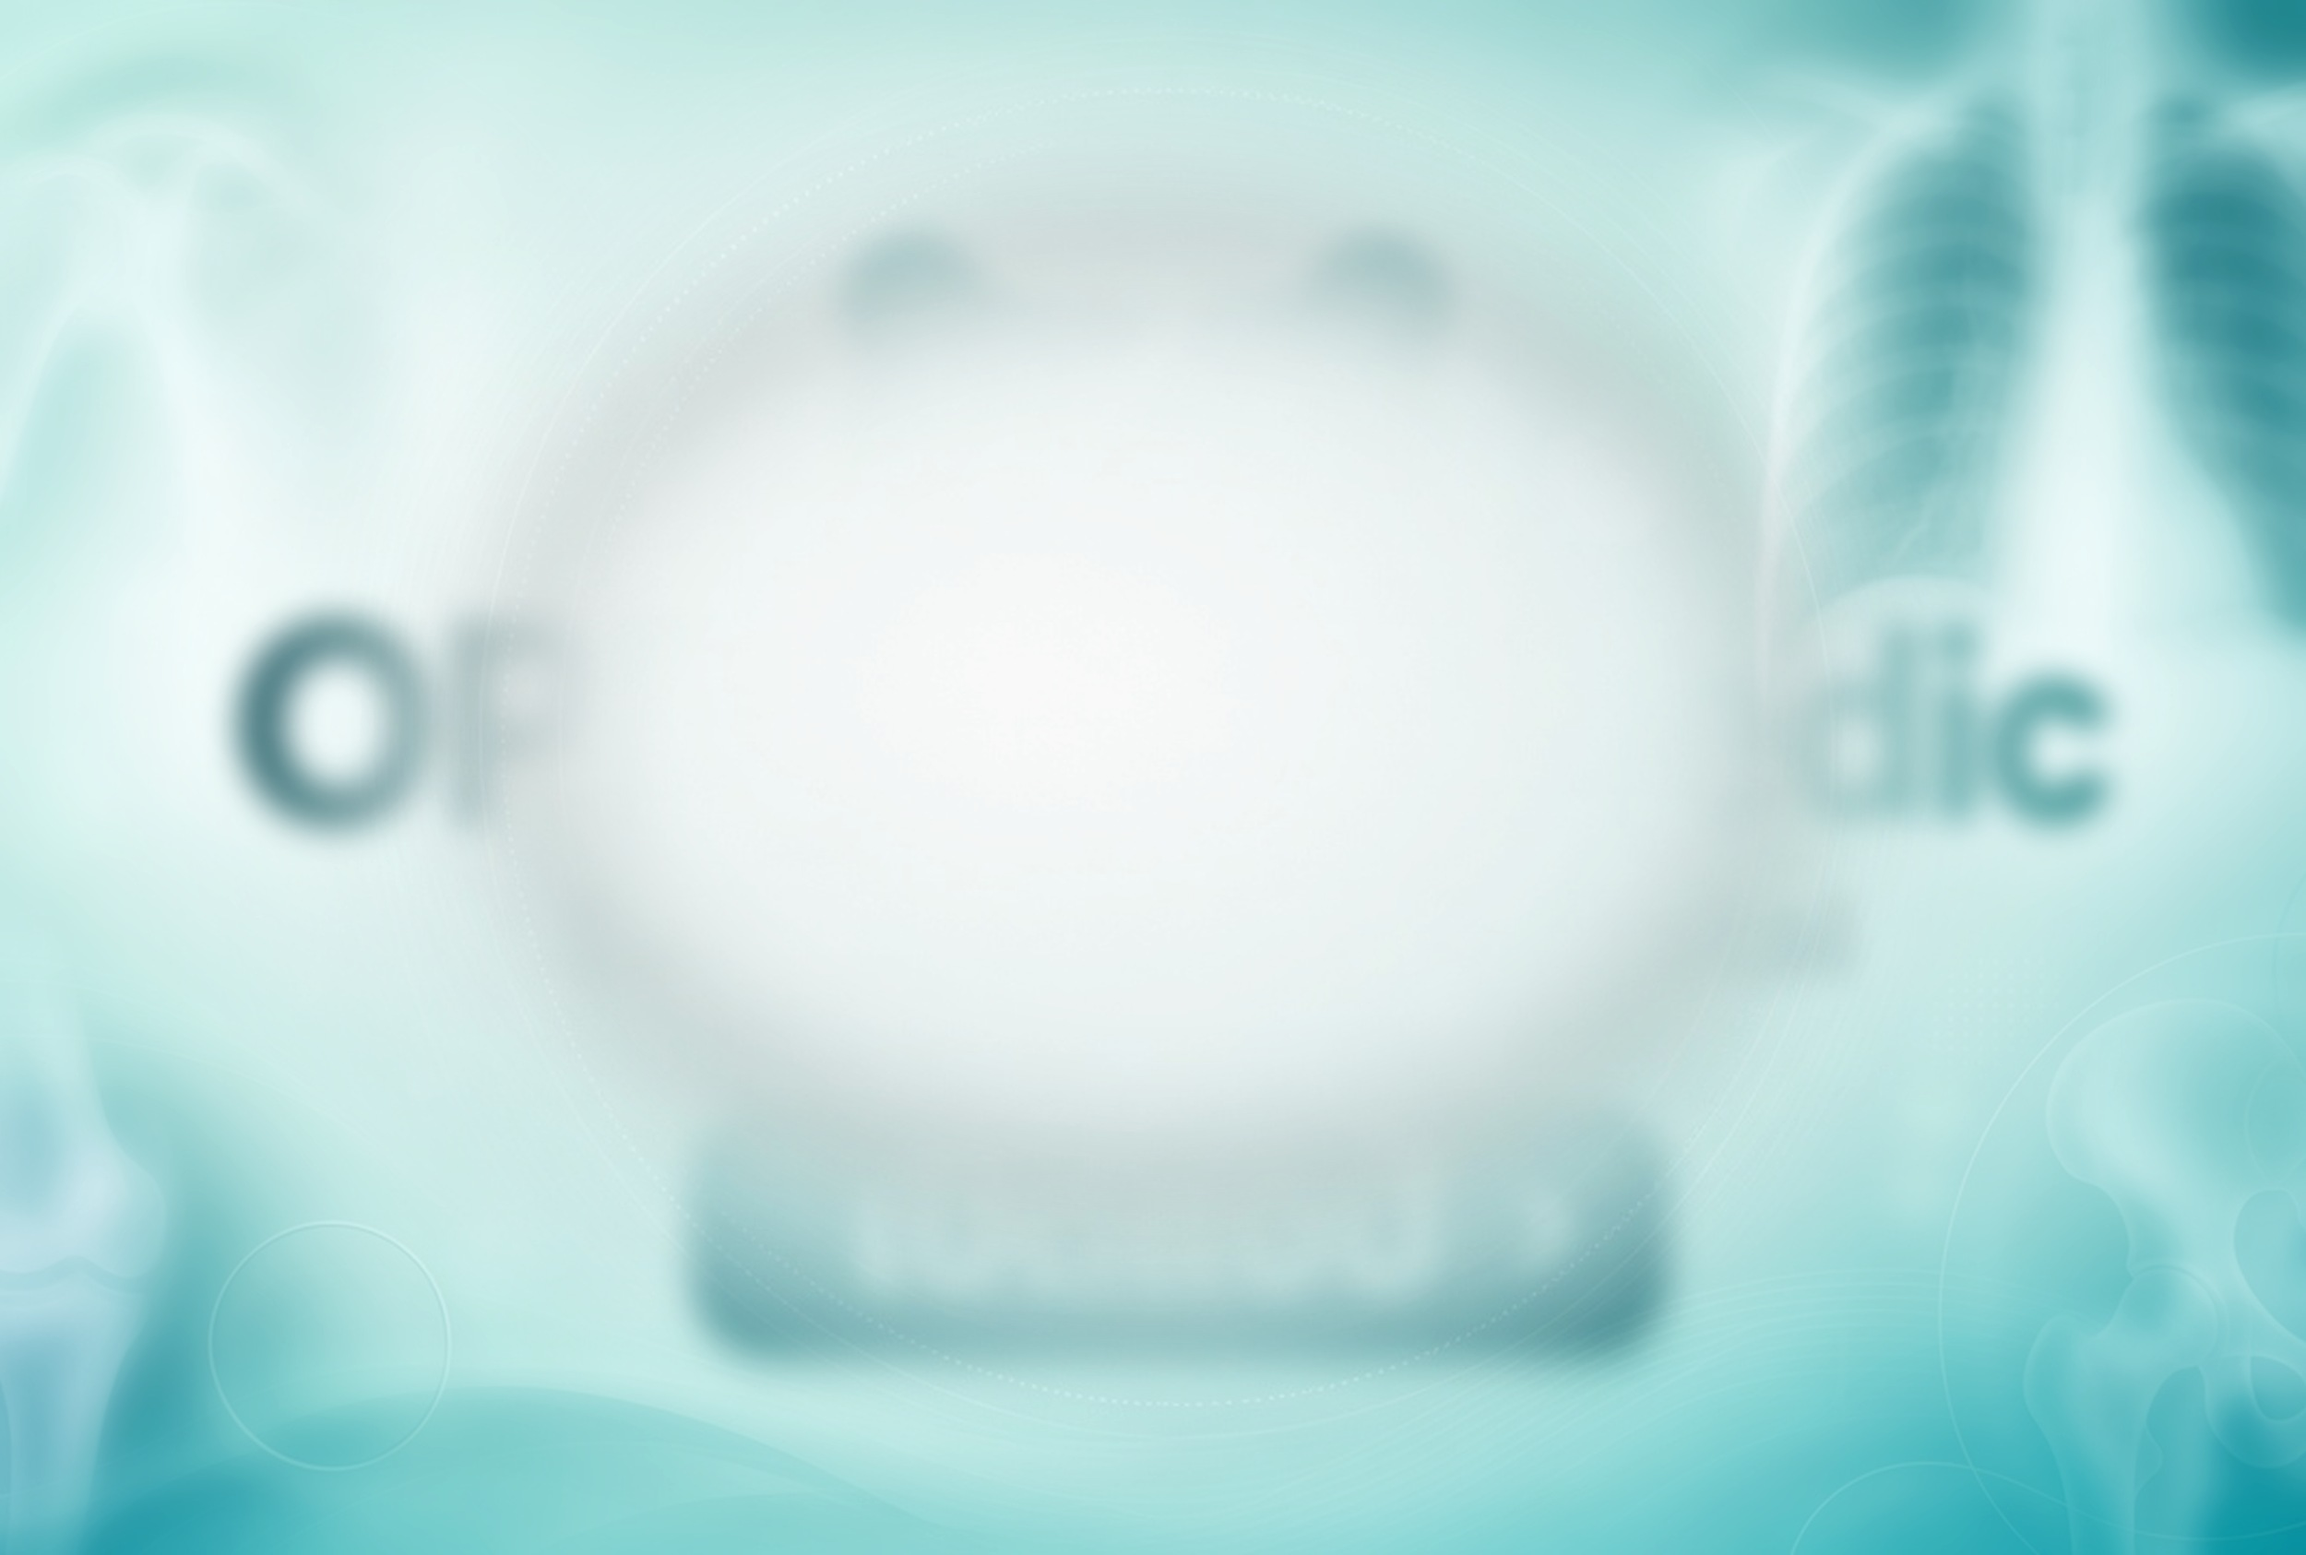
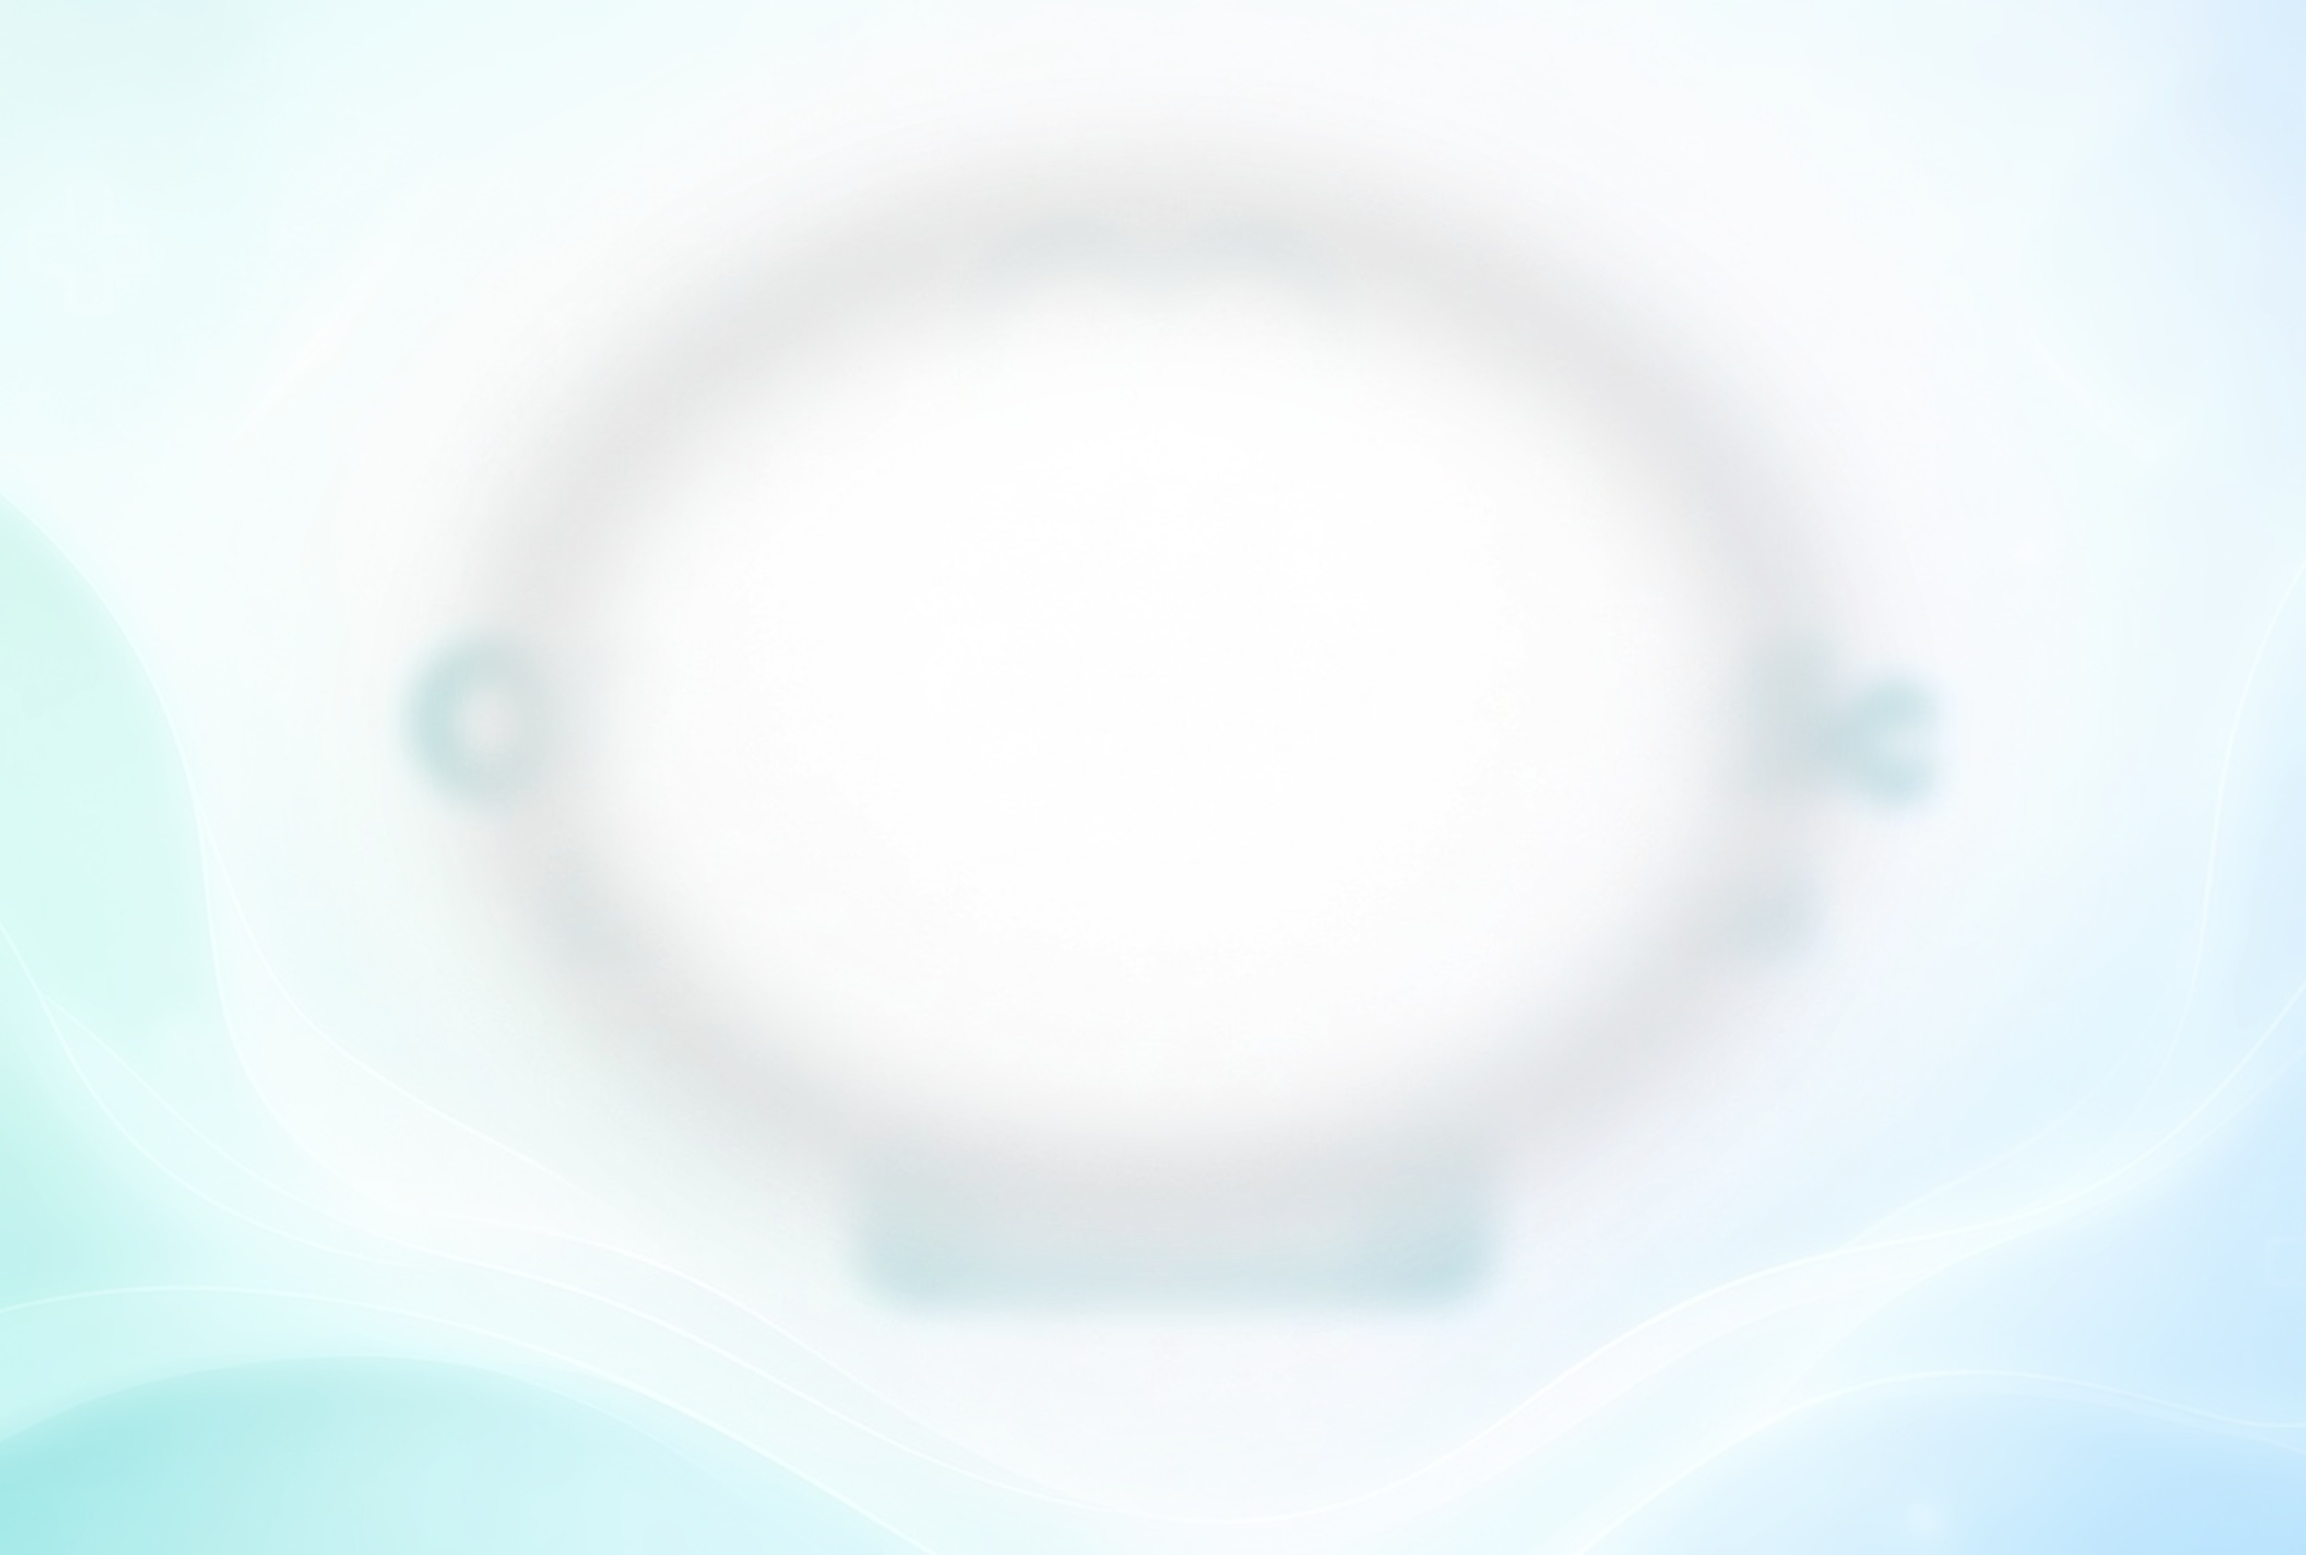
Restore heart + EKG rich menu design users preferred
Bring back the teal heart with heartbeat mark on the AI atmosphere,
keeping full-height 2500×1686 layout and crisp Sarabun CTA type.

diff --git a/line/rich-menu/generate-image.py b/line/rich-menu/generate-image.py
@@ -2,7 +2,7 @@
 """Compose the OPD Ortho SKH LINE rich-menu image (2500×1686 JPEG).
 
 Uses an AI-generated atmosphere (`source.jpg`) as the full-bleed background,
-then overlays a crisp bone mark, Sarabun typography, and CTA for mobile
+then overlays a crisp heart+EKG mark, Sarabun typography, and CTA for mobile
 readability. Output must stay under LINE’s 1 MB limit.
 """
 
@@ -37,11 +37,11 @@ def cover_crop(im: Image.Image, tw: int, th: int) -> Image.Image:
 
 
 def overlays_svg() -> str:
-    """Bone mark + CTA pill (labels drawn with Pillow + Sarabun)."""
+    """Heart + EKG mark and CTA pill (labels drawn with Pillow + Sarabun)."""
     return f"""<?xml version="1.0" encoding="UTF-8"?>
 <svg xmlns="http://www.w3.org/2000/svg" width="{W}" height="{H}" viewBox="0 0 {W} {H}">
   <defs>
-    <linearGradient id="boneFill" x1="0%" y1="0%" x2="100%" y2="100%">
+    <linearGradient id="heartFill" x1="0%" y1="0%" x2="100%" y2="100%">
       <stop offset="0%" stop-color="#1f8f86"/>
       <stop offset="100%" stop-color="#167269"/>
     </linearGradient>
@@ -49,21 +49,28 @@ def overlays_svg() -> str:
       <stop offset="0%" stop-color="#1f8f86"/>
       <stop offset="100%" stop-color="#135c55"/>
     </linearGradient>
-    <filter id="softShadow" x="-30%" y="-30%" width="160%" height="160%">
-      <feDropShadow dx="0" dy="12" stdDeviation="20" flood-color="#0d4a44" flood-opacity="0.30"/>
+    <filter id="softShadow" x="-40%" y="-40%" width="180%" height="180%">
+      <feDropShadow dx="0" dy="12" stdDeviation="20" flood-color="#0d4a44" flood-opacity="0.28"/>
     </filter>
   </defs>
-  <g transform="translate(1250, 300) scale(1.7)" filter="url(#softShadow)">
-    <rect x="-210" y="-28" width="420" height="56" rx="22" fill="url(#boneFill)"/>
-    <circle cx="-230" cy="-42" r="48" fill="url(#boneFill)"/>
-    <circle cx="-230" cy="42" r="48" fill="url(#boneFill)"/>
-    <rect x="-278" y="-42" width="70" height="84" rx="20" fill="url(#boneFill)"/>
-    <circle cx="230" cy="-42" r="48" fill="url(#boneFill)"/>
-    <circle cx="230" cy="42" r="48" fill="url(#boneFill)"/>
-    <rect x="208" y="-42" width="70" height="84" rx="20" fill="url(#boneFill)"/>
-    <path d="M-150 0 Q-70 -20 0 0 Q70 20 150 0" fill="none" stroke="#ffffff"
-      stroke-width="11" stroke-linecap="round" opacity="0.9"/>
+
+  <!-- Heart outline with EKG pulse -->
+  <g transform="translate(1250, 300) scale(2.35)" filter="url(#softShadow)">
+    <path d="M0 42
+      C0 42 -48 8 -48 -18
+      C-48 -38 -32 -50 -16 -50
+      C-4 -50 0 -40 0 -40
+      C0 -40 4 -50 16 -50
+      C32 -50 48 -38 48 -18
+      C48 8 0 42 0 42 Z"
+      fill="none" stroke="url(#heartFill)" stroke-width="10"
+      stroke-linejoin="round" stroke-linecap="round"/>
+    <!-- EKG zigzag through the heart -->
+    <path d="M-34 0 L-18 0 L-10 -18 L2 22 L12 -8 L20 0 L34 0"
+      fill="none" stroke="url(#heartFill)" stroke-width="7"
+      stroke-linejoin="round" stroke-linecap="round"/>
   </g>
+
   <rect x="380" y="1100" width="1740" height="250" rx="125"
     fill="url(#ctaFill)" filter="url(#softShadow)"/>
 </svg>
@@ -96,8 +103,7 @@ def build_atmosphere() -> Image.Image:
     if not SOURCE.exists():
         raise SystemExit(f"Missing AI atmosphere: {SOURCE}")
     base = cover_crop(Image.open(SOURCE), W, H)
-    # Slight center lift so Sarabun titles stay high-contrast on mint wash.
-    bright = ImageEnhance.Brightness(base).enhance(1.06)
+    bright = ImageEnhance.Brightness(base).enhance(1.05)
     mask = Image.new("L", (W, H), 0)
     ImageDraw.Draw(mask).ellipse((360, 160, 2140, 1520), fill=200)
     mask = mask.filter(ImageFilter.GaussianBlur(radius=110))
@@ -121,7 +127,6 @@ def main() -> None:
     title = ImageFont.truetype(str(FONT_BOLD), 176)
     hospital = ImageFont.truetype(str(FONT_BOLD), 92)
     cta = ImageFont.truetype(str(FONT_BOLD), 104)
-    chev = ImageFont.truetype(str(FONT_BOLD), 96)
 
     centered_text(draw, "OPD Orthopedic", 680, title, BRAND)
     centered_text(draw, "Samutsakhon Hospital", 850, hospital, BRAND)
@@ -134,17 +139,6 @@ def main() -> None:
         (255, 255, 255),
         stroke_width=4,
         stroke_fill=(19, 92, 85),
-    )
-
-    bbox = draw.textbbox((0, 0), "เปิดแอป", font=cta)
-    tw = bbox[2] - bbox[0]
-    chev_bbox = draw.textbbox((0, 0), "›", font=chev)
-    ch = chev_bbox[3] - chev_bbox[1]
-    draw.text(
-        ((W + tw) // 2 + 36, 1225 - ch // 2 - chev_bbox[1]),
-        "›",
-        font=chev,
-        fill=(255, 255, 255),
     )
 
     im.save(OUT, format="JPEG", quality=90, optimize=True, progressive=True)

diff --git a/line/rich-menu/README.md b/line/rich-menu/README.md
@@ -7,14 +7,14 @@ Single full-area rich menu that opens the main LIFF app URL:
 ## Files
 
 - `richmenu.jpg` — 2500×1686 full-size image uploaded to LINE (JPEG under 1 MB)
-- `source.jpg` — AI-generated teal-glass orthopedic atmosphere (X-ray corners)
+- `source.jpg` — AI-generated teal-glass medical atmosphere
 - `config.json` — Messaging API rich menu object (one URI area, full size)
-- `generate-image.py` — composites `source.jpg` + Sarabun type into `richmenu.jpg`
+- `generate-image.py` — composites `source.jpg` + heart/EKG mark + Sarabun type
 
 ## Design
 
-Full-bleed mint/teal medical atmosphere with faint orthopedic X-rays in the
-corners, a bone mark, **OPD Orthopedic / Samutsakhon Hospital**, and a wide
+Full-bleed mint/teal atmosphere with soft wave lines and medical crosses,
+a heart + EKG mark, **OPD Orthopedic / Samutsakhon Hospital**, and a wide
 **เปิดแอป** CTA. Typography is drawn with Sarabun so Thai stays sharp on
 iPhone-sized chat menus.
 
@@ -26,7 +26,7 @@ python3 line/rich-menu/generate-image.py
 ```
 
 To refresh the atmosphere, replace `source.jpg` with a new AI render
-(≈16:9 or 4:3 teal-glass ortho scene, empty center), then regenerate.
+(≈16:9 teal-glass medical scene, empty center), then regenerate.
 
 ## Deploy
 
